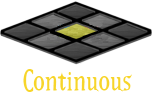
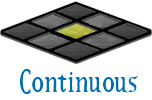
Updated map options and title UI

Changed region(s): [[0.1316, 0.69, 0.9211, 0.96]]

diff --git a/src/Menus/mapoptions.py b/src/Menus/mapoptions.py
@@ -24,6 +24,17 @@ ZOOM_LEVELS = [
 	'World'
 ]
 
+WHITE = pygame.Color(255, 255, 255)
+BLACK = pygame.Color(0, 0, 0)
+HOVER = pygame.Color(0, 110, 180)
+
+NONE = 0
+MAP_NEXT = 1
+PROG_NEXT = 2
+ZOOM_START = 3
+ARROW_LEFT = 4
+ARROW_RIGHT = 5
+
 class MapOptions(GameSceneBase):
 	def __init__(self):
 		GameSceneBase.__init__(self)
@@ -56,6 +67,7 @@ class MapOptions(GameSceneBase):
 		self._animStart = None
 		self._nextbg = None #next background
 		self._curScreenCache = None # previous bg
+		self._hover = None
 
 		# set stuff up
 		self._SetDefaults()
@@ -142,12 +154,12 @@ class MapOptions(GameSceneBase):
 		gcy = _GetCenterY
 		gcx = _GetCenterX
 		
-		text = self._font.Render("Start", pygame.Color(255, 255, 255))
+		text = self._font.Render("Start", (WHITE, HOVER)[self._hover == ZOOM_START])
 		nextx = _GetCenterX(screen, text)
 		screen.blit(text, (nextx, 400))
 		self._font_r = pygame.Rect(nextx, 400, text.get_width(), text.get_height())
 
-		text = self._font.Render("Zoom Level", pygame.Color(255, 255, 255))
+		text = self._font.Render("Zoom Level", BLACK)
 		screen.blit(text, (gcx(screen, text), 50))
 		yoffset = 50 + text.get_height()
 
@@ -157,17 +169,19 @@ class MapOptions(GameSceneBase):
 				if t > self._zoom_size:
 					self._zoom_size = t
 		
-		zsz = self._font.Render(ZOOM_LEVELS[self._zoom_level], pygame.Color(255, 255, 255))
+		zsz = self._font.Render(ZOOM_LEVELS[self._zoom_level], BLACK)
 		x = gcx(screen, zsz)
 		screen.blit(zsz, (x, yoffset + 30))
 		
 		x1 = ((640 - self._zoom_size)/2) - self._time_left.get_width() - 20
-		screen.blit(self._time_left, (x1, yoffset + 30))
+		surf = (self._time_left, self._time_left_hover)[self._hover == ARROW_LEFT]
+		screen.blit(surf, (x1, yoffset + 30))
 		if (not self._zoom_left_r):
 			self._zoom_left_r = pygame.Rect(x1, yoffset+30, self._time_left.get_width(), self._time_left.get_height())
 		
 		x2 = x1 + self._time_left.get_width() + self._zoom_size + 40
-		screen.blit(self._time_right, (x2, yoffset + 30))
+		surf = (self._time_right, self._time_right_hover)[self._hover == ARROW_RIGHT]
+		screen.blit(surf, (x2, yoffset + 30))
 		if (not self._zoom_right_r):
 			self._zoom_right_r = pygame.Rect(x2, yoffset+30, self._time_right.get_width(), self._time_right.get_height())
 
@@ -178,6 +192,8 @@ class MapOptions(GameSceneBase):
 	def _ZoomLevelUIInput(self, events):
 		for e in events:
 			if e.type == pygame.MOUSEBUTTONUP and e.button == 1:
+				if not self._zoom_left_r:
+					return
 				x = e.pos[0]
 				y = e.pos[1]
 				if (self._font_r.collidepoint(x, y)):
@@ -186,6 +202,18 @@ class MapOptions(GameSceneBase):
 					self._decZoom()
 				elif (self._zoom_right_r.collidepoint(x, y)):
 					self._incZoom()
+			if e.type == pygame.MOUSEMOTION:
+				self._hover = None
+				if not self._zoom_left_r:
+					return
+				x = e.pos[0]
+				y = e.pos[1]
+				if (self._font_r.collidepoint(x, y)):
+					self._hover = ZOOM_START
+				elif (self._zoom_left_r.collidepoint(x, y)):
+					self._hover = ARROW_LEFT
+				elif (self._zoom_right_r.collidepoint(x, y)):
+					self._hover = ARROW_RIGHT
 	
 	def _incZoom(self):
 		self._zoom_level += 1
@@ -201,7 +229,7 @@ class MapOptions(GameSceneBase):
 		gcy = _GetCenterY
 		gcx = _GetCenterX
 		
-		text = self._font.Render("Next")
+		text = self._font.Render("Next", (WHITE, HOVER)[self._hover == PROG_NEXT])
 		nextx = _GetCenterX(screen, text)
 		screen.blit(text, (nextx, 400))
 		if not self._font_r:
@@ -219,6 +247,8 @@ class MapOptions(GameSceneBase):
 			self._mode_zoom_selected = Resources.ImageLibrary.Get('MapOptions/prog-time/progress_selected.png')
 			self._time_right = Resources.ImageLibrary.Get('MapOptions/prog-time/right.png')
 			self._time_left = Resources.ImageLibrary.Get('MapOptions/prog-time/left.png')
+			self._time_right_hover = Resources.ImageLibrary.Get('MapOptions/prog-time/right_hover.png')
+			self._time_left_hover = Resources.ImageLibrary.Get('MapOptions/prog-time/left_hover.png')
 		
 		cont = self._mode_cont
 		zoom = self._mode_zoom
@@ -256,12 +286,14 @@ class MapOptions(GameSceneBase):
 		delta = 40
 		fx = base - self._time_left.get_width() - delta
 		y = yoffset + 30
-		screen.blit(self._time_left, (fx, y))
+		surf = (self._time_left, self._time_left_hover)[self._hover == ARROW_LEFT]
+		screen.blit(surf, (fx, y))
 		if not self._time_left_r:
 			self._time_left_r = pygame.Rect(fx, y, self._time_left.get_width(), self._time_left.get_height())
 			
 		fx = base + unl_width + delta
-		screen.blit(self._time_right, (fx, y))
+		surf = (self._time_right, self._time_right_hover)[self._hover == ARROW_RIGHT]
+		screen.blit(surf, (fx, y))
 		if not self._time_right_r:
 			self._time_right_r = pygame.Rect(fx, y, self._time_right.get_width(), self._time_right.get_height())
 		
@@ -269,6 +301,8 @@ class MapOptions(GameSceneBase):
 	def _ProgTimeUIInput(self, events):
 		for e in events:
 			if e.type == pygame.MOUSEBUTTONUP and e.button == 1:
+				if not self._mode_cont_r:
+					return
 				x = e.pos[0]
 				y = e.pos[1]
 				if (self._font_r.collidepoint(x, y)):
@@ -281,7 +315,19 @@ class MapOptions(GameSceneBase):
 					self._incTime()
 				elif (self._time_left_r.collidepoint(x, y)):
 					self._decTime()
-				
+			elif e.type == pygame.MOUSEMOTION:
+				self._hover = None
+				if not self._time_left_r:
+					return
+				x = e.pos[0]
+				y = e.pos[1]
+				if (self._font_r.collidepoint(x, y)):
+					self._hover = PROG_NEXT
+				elif (self._time_left_r.collidepoint(x, y)):
+					self._hover = ARROW_LEFT
+				elif (self._time_right_r.collidepoint(x, y)):
+					self._hover = ARROW_RIGHT
+
 	def _incTime(self):
 		if (self._time == -1):
 			self._time = 2
@@ -307,13 +353,13 @@ class MapOptions(GameSceneBase):
 		gcy = _GetCenterY
 		gcx = _GetCenterX
 		
-		text = self._font.Render("Next")
+		text = self._font.Render("Next", (WHITE, HOVER)[self._hover == MAP_NEXT])
 		nextx = _GetCenterX(screen, text)
 		screen.blit(text, (nextx, 400))
 		if not self._font_r:
 			self._font_r = pygame.Rect(nextx, 400, text.get_width(), text.get_height())
 		
-		text = self._font.Render("Map Size")
+		text = self._font.Render("Map Size", WHITE)
 		screen.blit(text, (gcx(screen, text), 50))
 		yoffset = 50 + text.get_height()
 
@@ -349,7 +395,16 @@ class MapOptions(GameSceneBase):
 	
 	def _MapUIInput(self, events):
 		for e in events:
+			if e.type == pygame.MOUSEMOTION:
+				self._hover = NONE
+				x = e.pos[0]
+				y = e.pos[1]
+				if (self._font_r and self._font_r.collidepoint(x, y)):
+					self._hover = MAP_NEXT
 			if e.type == pygame.MOUSEBUTTONUP and e.button == 1:
+				if (not self._font_r):
+					return
+				
 				x = e.pos[0]
 				y = e.pos[1]
 				if (self._font_r.collidepoint(x, y)):

diff --git a/src/Menus/title.py b/src/Menus/title.py
@@ -42,11 +42,11 @@ class Title(GameSceneBase):
 		self._quit_r = None
 		self._hover = NONE
 		
-		self.text = Resources.ImageLibrary.Get('txt.png')
-		self.shattered = pygame.Surface((435, 117), pygame.SRCALPHA).convert_alpha()
-		self.shattered.blit(self.text, (0, 0))
-		self.silence = pygame.Surface((286, 124), pygame.SRCALPHA).convert_alpha()
-		self.silence.blit(self.text, (-91, -222))
+		#self.text = Resources.ImageLibrary.Get('txt.png')
+		#self.shattered = pygame.Surface((435, 117), pygame.SRCALPHA).convert_alpha()
+		#self.shattered.blit(self.text, (0, 0))
+		#self.silence = pygame.Surface((286, 124), pygame.SRCALPHA).convert_alpha()
+		#self.silence.blit(self.text, (-91, -222))
 		
 	def ProcessInput(self, events):
 		for event in events:
@@ -71,6 +71,9 @@ class Title(GameSceneBase):
 				x = event.pos[0]
 				y = event.pos[1]
 				
+				if not self._story_r:
+					return
+				
 				if (self._story_r.collidepoint(x, y)):
 					self.next = PlayScene(LevelSeed('level2', None))
 				elif (self._custom_r.collidepoint(x, y)):
@@ -91,41 +94,41 @@ class Title(GameSceneBase):
 		v = int(120 + math.sin(self.counter * 3.14159 * 2 / 220.0) * 50)
 		pygame.draw.rect(screen, (v, v, v), pygame.Rect(0, 0, 640, 480)) 
 		
-		screen.blit(self.shattered, (0, 0))
-		screen.blit(self.silence, (297, 45))
+		#screen.blit(self.shattered, (0, 0))
+		#screen.blit(self.silence, (297, 45))
 		
 		titleimage = ImageLibrary.Get('title_bg.png')
 		screen.blit(titleimage, (0, 0))
 		
 		f = self._font.Render
 		h = self._hover
-		x = 44
-		y = 316
 		text = f('Story Mode', COLOR[h == STORY])
+		x = (250 - text.get_width()) / 2
+		y = 283
 		screen.blit(text, (x, y))
 		if (not self._story_r):
 			self._story_r = pygame.Rect(x, y, text.get_width(), text.get_height())
-		x = 39
-		y = 353
 		text = f('Custom Game', COLOR[h == CUSTOM])
+		x = (250 - text.get_width()) / 2
+		y = 316
 		screen.blit(text, (x, y))
 		if (not self._custom_r):
 			self._custom_r = pygame.Rect(x, y, text.get_width(), text.get_height())
-		x = 43
-		y = 394
 		text = f('Rewatch Intro', COLOR[h == INTRO])
+		x = (250 - text.get_width()) / 2
+		y = 353
 		screen.blit(text, (x, y))
 		if (not self._intro_r):
 			self._intro_r = pygame.Rect(x, y, text.get_width(), text.get_height())
-		x = 67
-		y = 433
 		text = f('Credits', COLOR[h == CREDITS])
+		x = (250 - text.get_width()) / 2
+		y = 394
 		screen.blit(text, (x, y))
 		if (not self._credits_r):
 			self._credits_r = pygame.Rect(x, y, text.get_width(), text.get_height())
-		x = 570
-		y = 433
 		text = f('Quit', COLOR[h == QUIT])
+		x = (250 - text.get_width()) / 2
+		y = 433
 		screen.blit(text, (x, y))
 		if (not self._quit_r):
 			self._quit_r = pygame.Rect(x, y, text.get_width(), text.get_height())

diff --git a/src/Menus/credits.py b/src/Menus/credits.py
@@ -46,16 +46,17 @@ def _lineup():
 
 class Credits(GameSceneBase):
 	def __init__(self):
+		GameSceneBase.__init__(self)
 		global LINEUP
 		LINEUP = None
-		GameSceneBase.__init__(self)
+		_lineup()
 		
 	def ProcessInput(self, events):
 		pass
 
 	def Update(self):
 		self.next = Programming2()
-		#self.next = Art()
+		#self.next = Exit()
 		
 	def Render(self, screen):
 		screen.fill((0, 0, 0))
@@ -110,6 +111,42 @@ class CreditsBase(GameSceneBase):
 			offset += 3 + t.get_width()
 		return surf.subsurface(pygame.Rect(0,0,offset-3,16))
 
+class Exit(CreditsBase):
+	def __init__(self):
+		CreditsBase.__init__(self)
+		self._counter = 0
+		
+		self._header = self.RenderHeader('Thank you for playing')
+		self._tag = self._MakeName('Team Nerd Paradise')
+	
+	def Update(self):
+		CreditsBase.Update(self)
+		self._counter += 1
+	
+	def Render(self, screen):
+		screen.fill((0,0,0))
+		CreditsBase.Render(self, screen)
+		
+		counter = self._counter
+		start = 30
+
+		if counter == start:
+			for key in _lineup():
+				p = _lineup()[key]
+				if key != BLAKE:
+					p.SetMode(RETURN)
+		
+		if counter == start + RETURN_COUNT:
+			for key in _lineup():
+				p = _lineup()[key]
+				if key != BLAKE:
+					p.SetMode(WAITING)
+
+		salute = start + RETURN_COUNT + 5
+		
+		
+		print("Count: %d" % counter)
+
 class CBase2(CreditsBase):
 	def __init__(self, header, nameList, pplList):
 		CreditsBase.__init__(self)
@@ -138,10 +175,11 @@ class CBase2(CreditsBase):
 			screen.blit(self._names[i], ((200 - self._names[i].get_width()) / 2, yoffset))
 			yoffset += 20
 		
-		start = 80
+		start = 65
 		stop = start + WALK_COUNT
 		back = stop + 60
 		stop2 = back + RETURN_COUNT
+		shutdown = stop2 + 35
 
 		op = (1 - (counter / (2 * FADE_COUNT))) * 255
 		if op < 0:
@@ -171,7 +209,7 @@ class CBase2(CreditsBase):
 		
 		CreditsBase.Render(self, screen)
 		
-		if (counter > 340 and op >= 255):
+		if (counter > shutdown and op >= 255):
 			self.next = self.NextScene()
 
 class Art(CBase2):
@@ -232,7 +270,8 @@ class SpecialThanks(CBase2):
 		)
 	
 	def NextScene(self):
-		return Programming2()
+		#return Exit()
+		return Menus.Title()
 
 class Programming2(CBase2):
 	def __init__(self):
